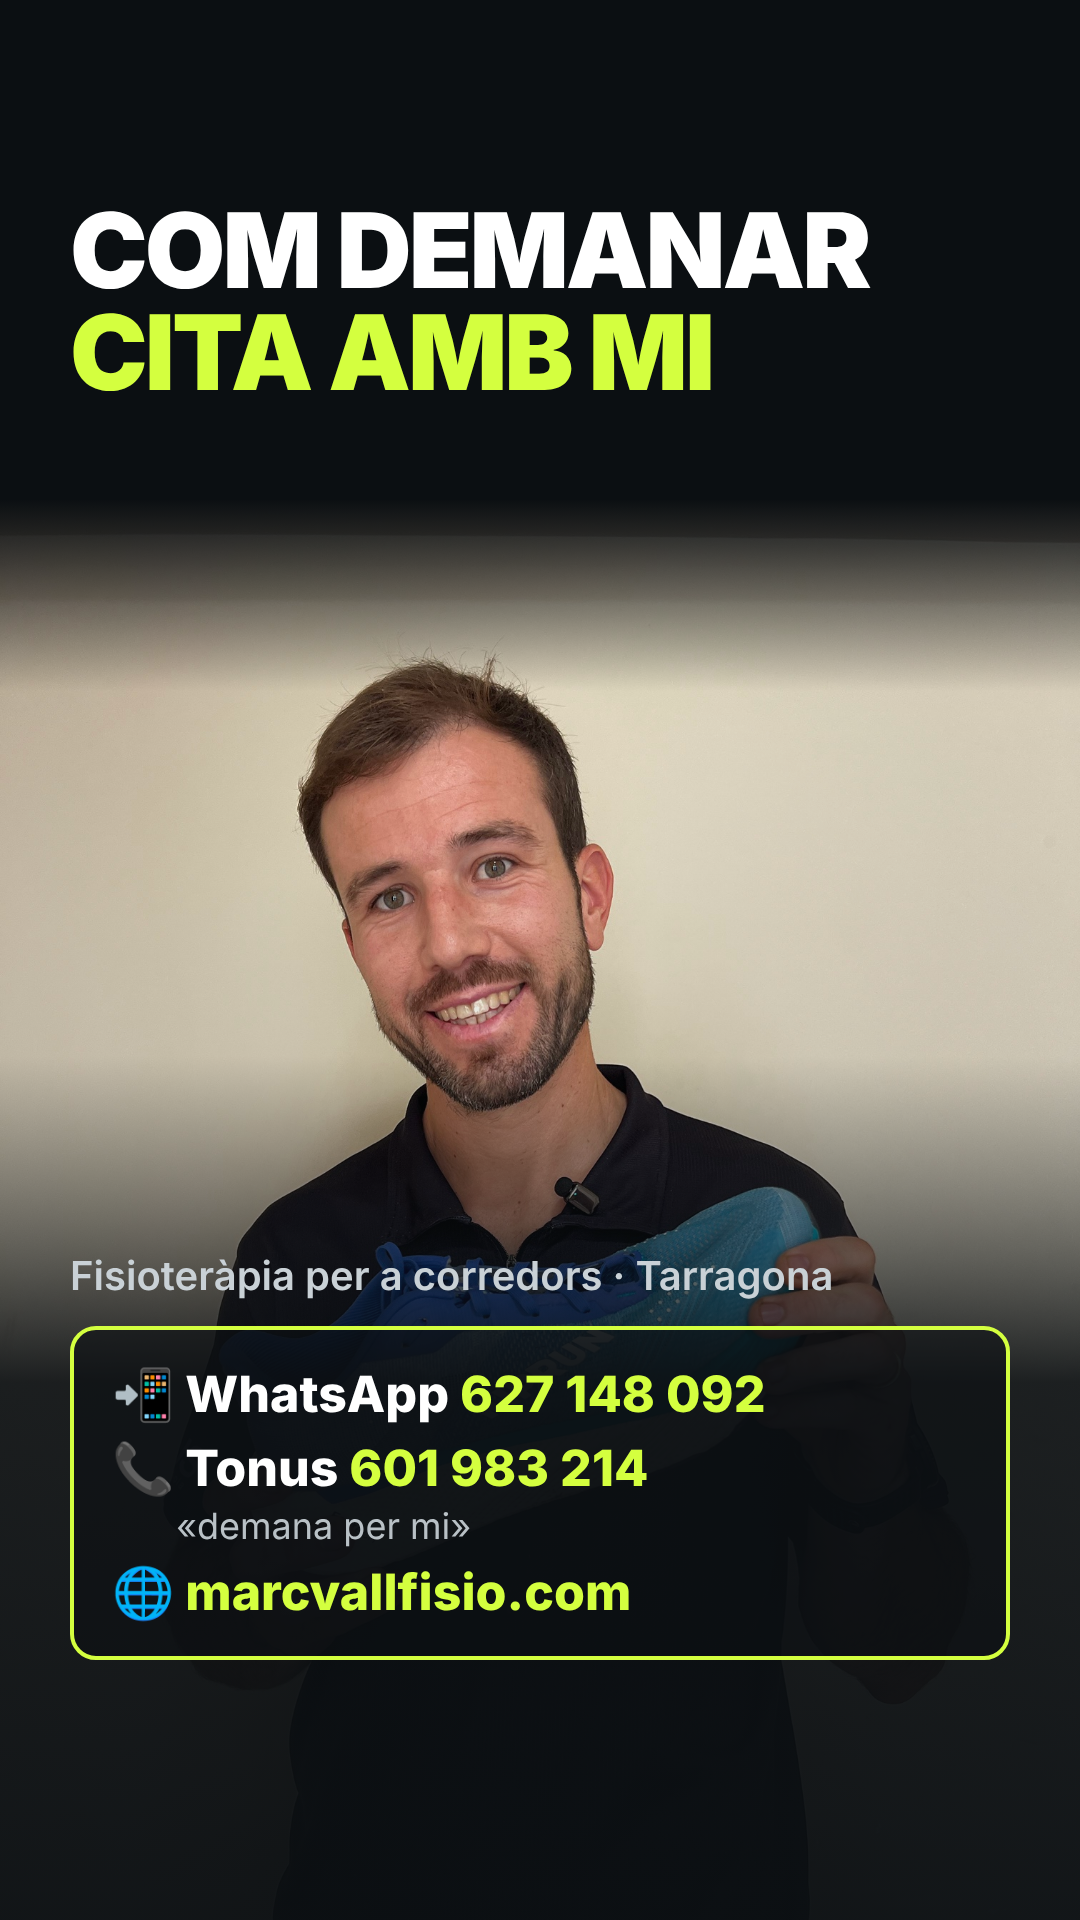
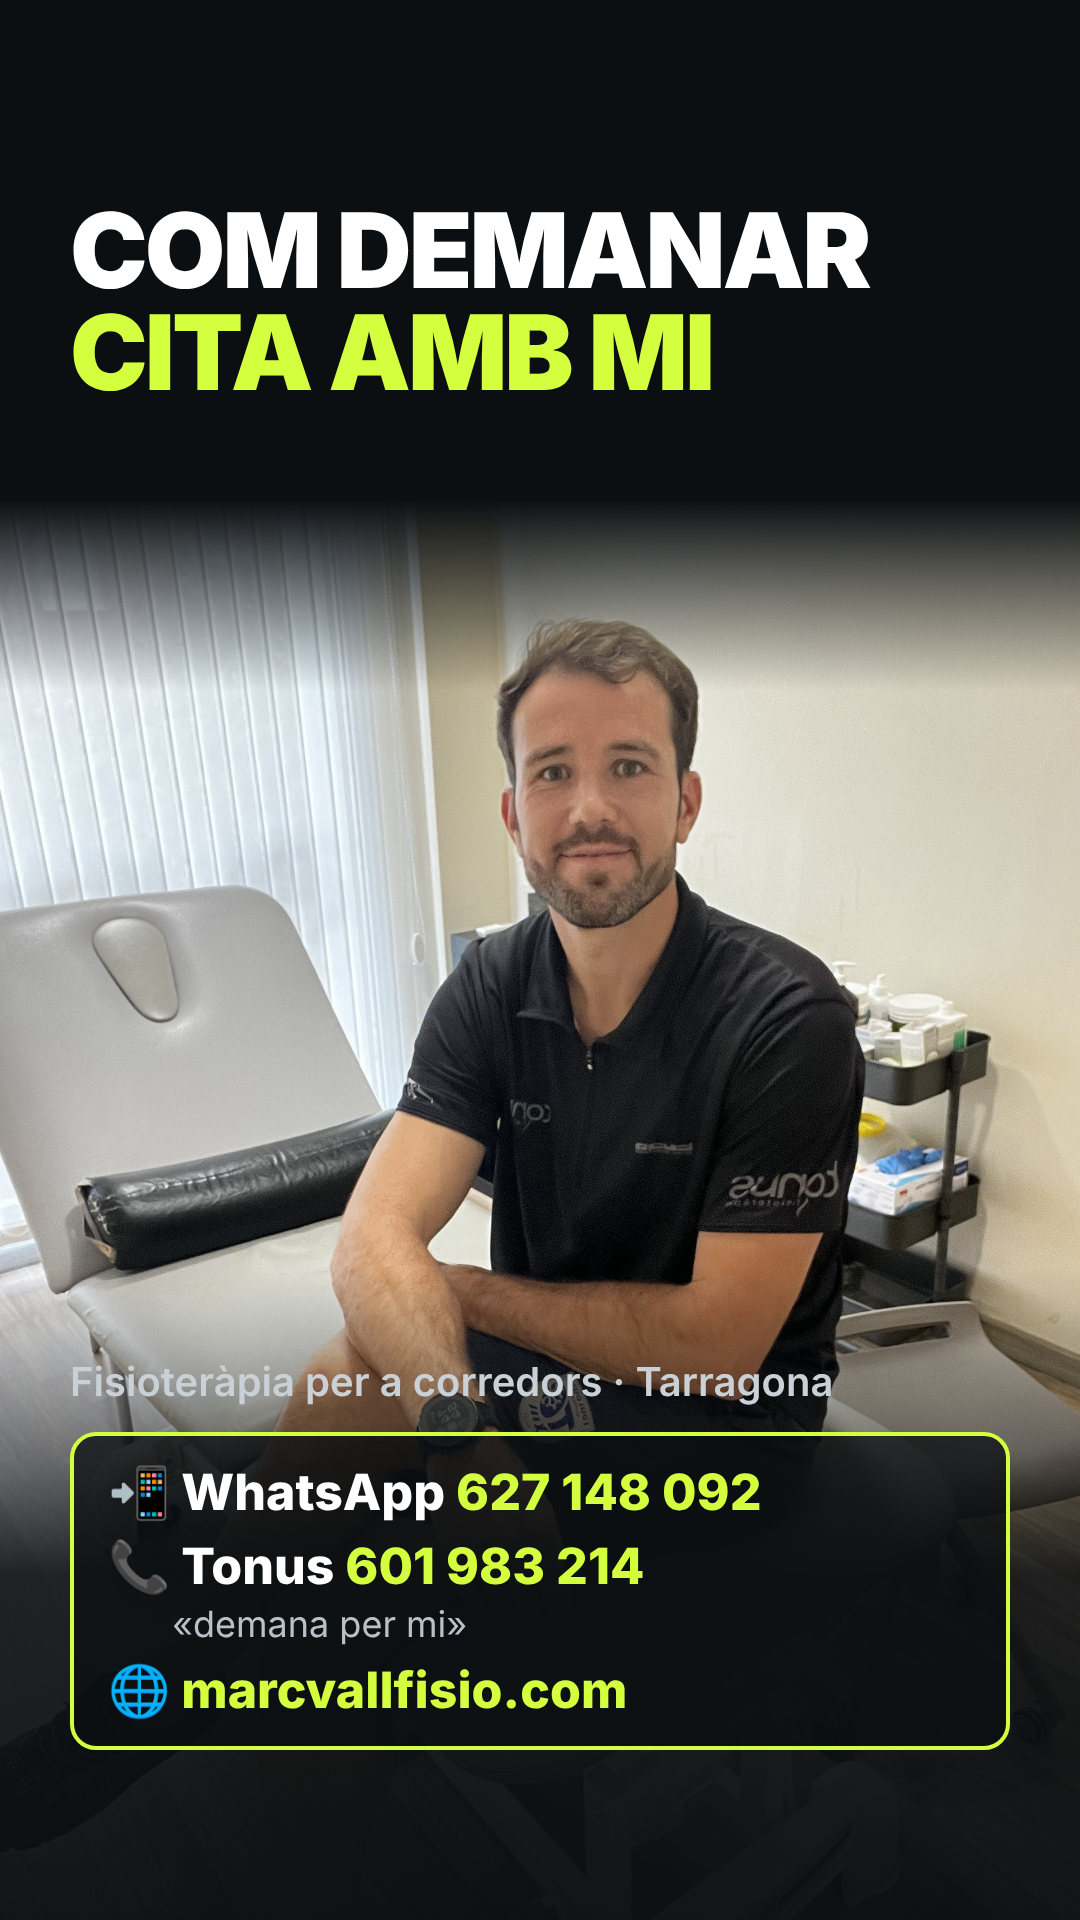
Story cita: foto braços creuats, quadre més avall
Claude-Session: https://claude.ai/code/session_0129rqGdsRmN9Z9aLzGCda8A

diff --git a/media/publicacions/setmana_lesions/gen_stories.py b/media/publicacions/setmana_lesions/gen_stories.py
@@ -13,13 +13,13 @@ PREG = f"""<div style="position:relative;width:1080px;height:1920px">{bg("trail_
 <div style="font-weight:900;font-size:100px;line-height:.98;letter-spacing:-3px;text-transform:uppercase;color:#fff;margin-top:22px">Quina lesió de corredor <span style="color:#D4FF3F">vols que t'expliqui?</span></div>
 <div style="font-size:40px;font-weight:600;color:#C9D1D6;margin-top:26px">Vota i divendres t'explico la més votada 👇</div></div>
 </div>"""
-CITA = f"""<div style="position:relative;width:1080px;height:1920px">{bg("polo_tonus_kiprun_somriu_1.jpg","50% 30%")}
-<div style="position:absolute;inset:0;background:linear-gradient(180deg,#0B0F12 0%,#0B0F12 26%,rgba(11,15,18,0) 36%,rgba(11,15,18,.1) 55%,rgba(11,15,18,.92) 72%,rgba(11,15,18,.97) 100%)"></div>
+CITA = f"""<div style="position:relative;width:1080px;height:1920px">{bg("tonus_camilla_bracos_creuats.jpg","50% 40%")}
+<div style="position:absolute;inset:0;background:linear-gradient(180deg,#0B0F12 0%,#0B0F12 26%,rgba(11,15,18,0) 36%,rgba(11,15,18,0) 66%,rgba(11,15,18,.9) 82%,rgba(11,15,18,.97) 100%)"></div>
 <div style="position:absolute;top:200px;left:70px;right:70px">
 <div style="font-weight:900;font-size:104px;line-height:.98;letter-spacing:-3px;text-transform:uppercase;color:#fff">Com demanar <span style="color:#D4FF3F">cita amb mi</span></div></div>
-<div style="position:absolute;bottom:260px;left:70px;right:70px">
+<div style="position:absolute;bottom:170px;left:70px;right:70px">
 <div style="font-size:40px;font-weight:600;color:#C9D1D6">Fisioteràpia per a corredors · Tarragona</div>
-<div style="margin-top:26px;border:4px solid #D4FF3F;border-radius:26px;padding:34px 38px;background:rgba(11,15,18,.6)">
+<div style="margin-top:26px;border:4px solid #D4FF3F;border-radius:26px;padding:26px 34px;background:rgba(11,15,18,.75)">
 <div style="font-size:50px;font-weight:800;color:#fff">📲 WhatsApp <span style="color:#D4FF3F">627 148 092</span></div>
 <div style="font-size:50px;font-weight:800;color:#fff;margin-top:14px">📞 Tonus <span style="color:#D4FF3F">601 983 214</span></div>
 <div style="font-size:36px;color:#B9C1C6;margin-top:6px;padding-left:64px">«demana per mi»</div>
